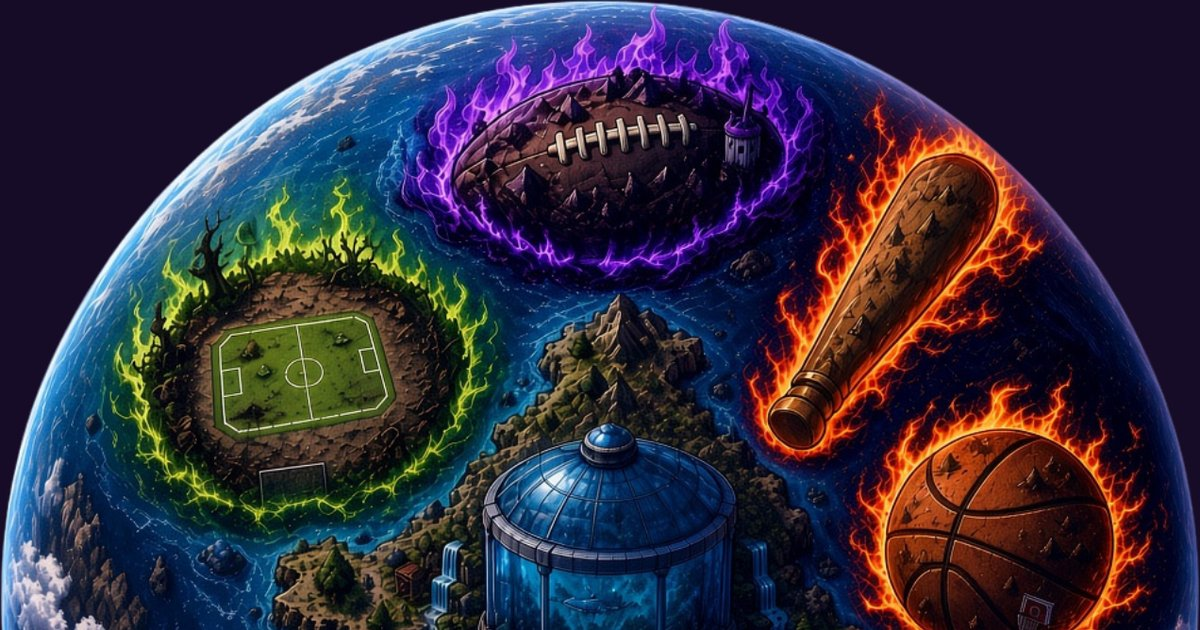
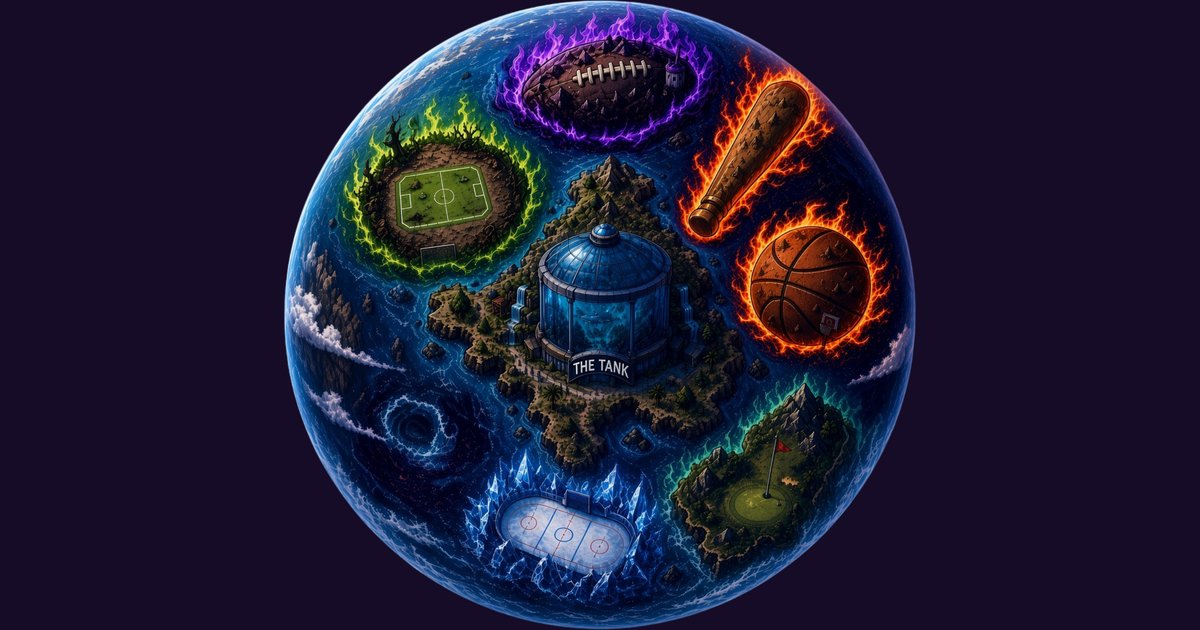
Show the whole planet in the OG share card
The card was cover-cropping the square world_map_nav.png source into
1200x630, which kept only a middle band - the hockey and golf islands
and the top and bottom of the globe were amputated, so the Discord
unfurl read as some other, wrong image. Switch to fit:contain,
letterboxed on the page's own midnight purple, so the entire planet
(all six islands, THE TANK) shows.

diff --git a/scripts/optimize-landing-images.ts b/scripts/optimize-landing-images.ts
@@ -263,17 +263,20 @@ async function buildWorldMapImages(): Promise<void> {
         `world-map.png (${(pngInfo.size / 1024).toFixed(0)}KB) [trimmed to ${pngInfo.width}x${pngInfo.height}]`
     );
 
-    // OG card: flatten onto the same midnight-purple the page background uses,
-    // since the source has transparent padding and a JPG can't carry alpha - a
-    // transparent-turned-white background would look like a bug in every link
-    // preview.
+    // OG card: the WHOLE planet, letterboxed onto the same midnight-purple the page
+    // background uses. `contain`, never `cover` - the source is square and the card is
+    // 1.91:1, so a cover crop keeps only a middle band and amputates the hockey and
+    // golf islands plus the top and bottom of the globe, which reads in a Discord
+    // unfurl as some other, wrong image. Flattening also matters: the source has
+    // transparent padding and a JPG can't carry alpha, so a transparent-turned-white
+    // background would look like a bug in every link preview.
     const ogPath = path.join(outDir, 'og-share-world-map.jpg');
     await sharp(trimmedBuffer)
+        .resize(1200, 630, { fit: 'contain', background: '#160c27' })
         .flatten({ background: '#160c27' })
-        .resize(1200, 630, { fit: 'cover', position: 'attention' })
         .jpeg({ quality: 85 })
         .toFile(ogPath);
-    console.log(`✓ og-share-world-map.jpg (${(fs.statSync(ogPath).size / 1024).toFixed(0)}KB) [1200x630]`);
+    console.log(`✓ og-share-world-map.jpg (${(fs.statSync(ogPath).size / 1024).toFixed(0)}KB) [1200x630, whole planet]`);
 }
 
 /**
